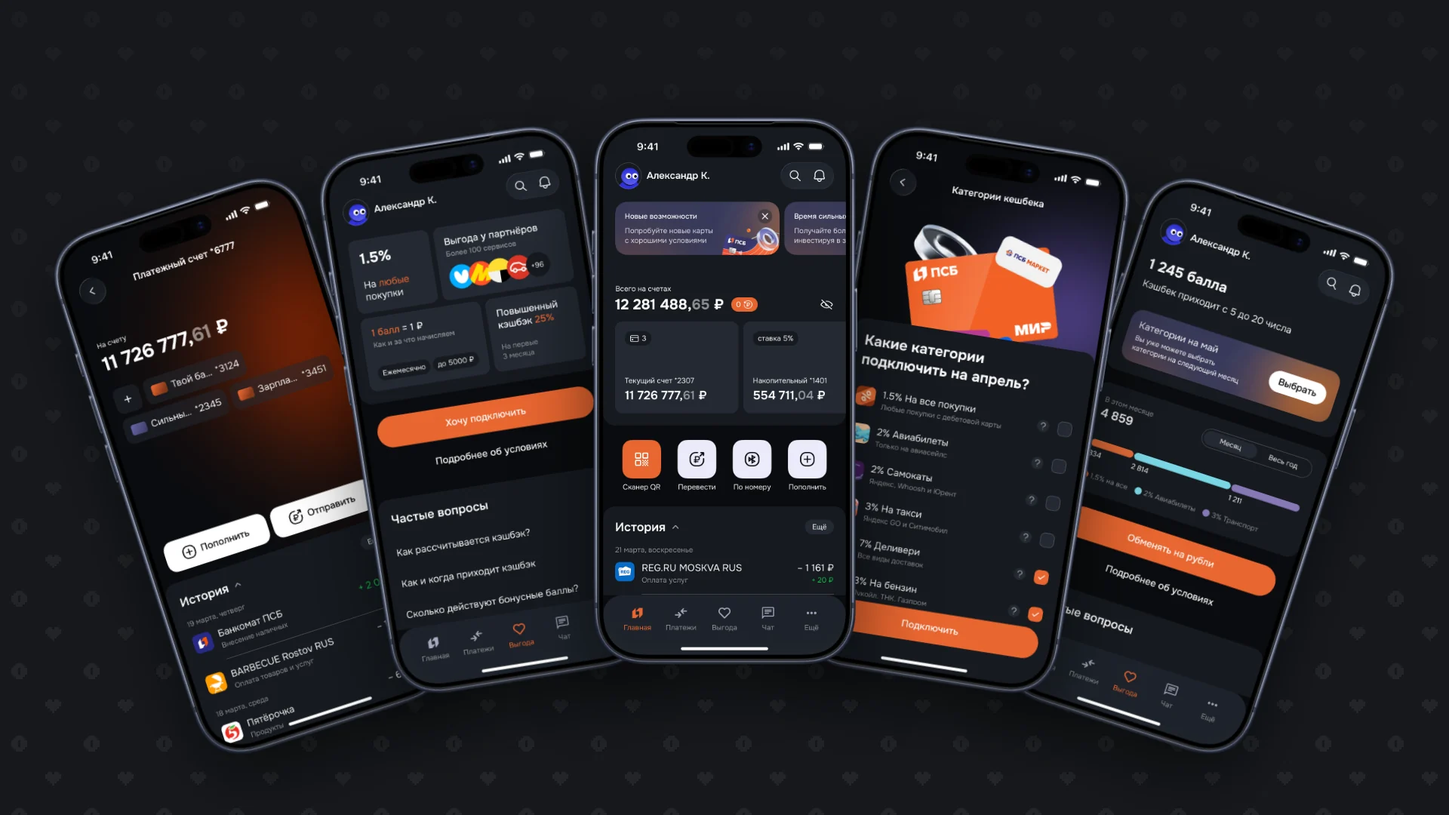
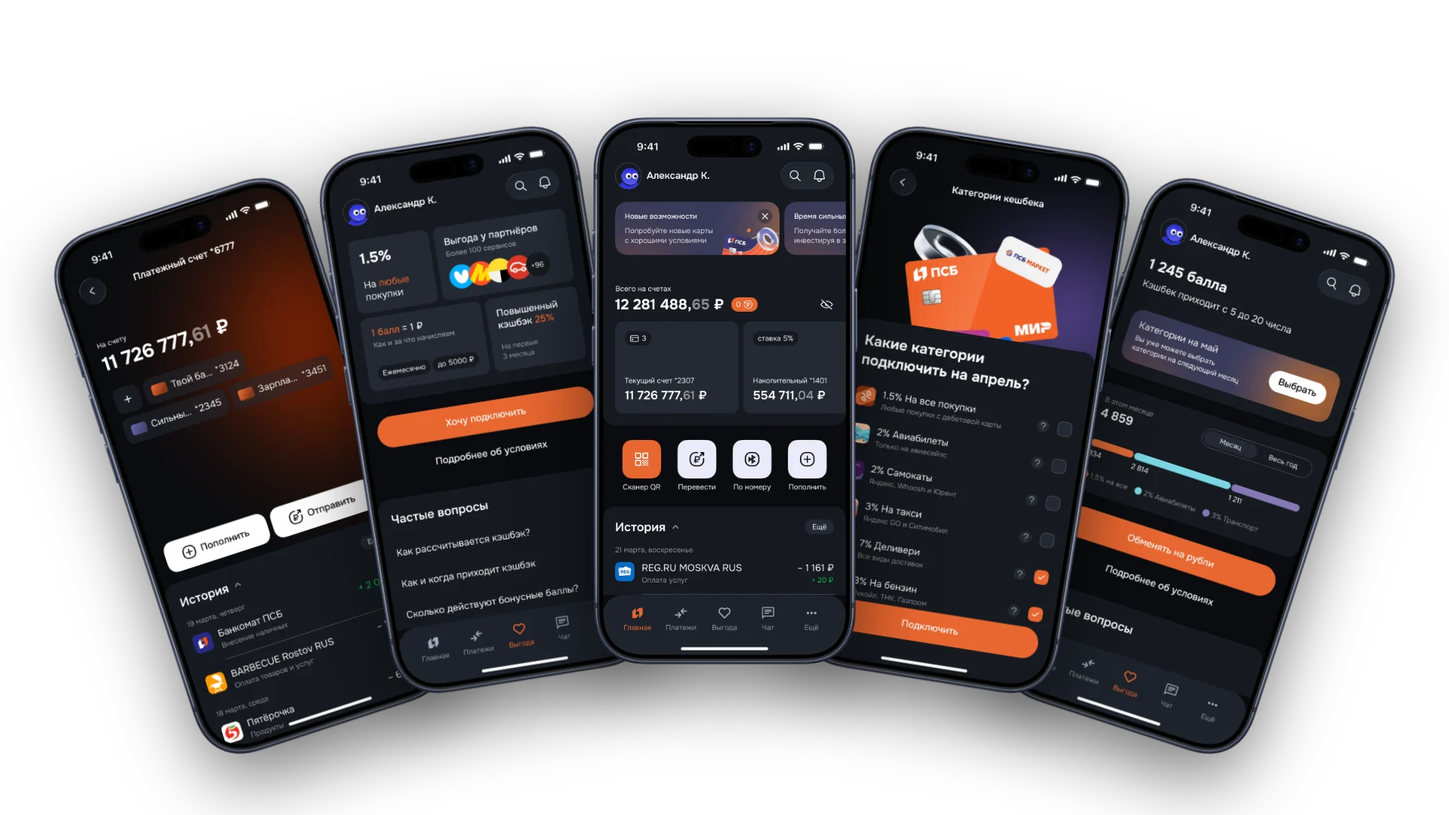
fix: cover objects always fit whole; only the background fills a wide window
Covers are now two layers: the graphite pattern fills any window and may be
cropped, the objects are a transparent 16:9 image fitted with object-fit: contain.

Claude-Session: https://claude.ai/code/session_01WDjvAgBeNzhiKsAMiNqV3R

diff --git a/tools/render-covers.js b/tools/render-covers.js
@@ -1,5 +1,8 @@
 /*
-  Renders the quest covers for sketches/pause.html (1920×1080 WebP).
+  Renders the quest covers for sketches/pause.html, each as two 1920×1080 WebP layers:
+  cover-<id>-bg.webp, the background alone, which fills a window of any shape and may be cropped
+  (it is a uniform pattern), and cover-<id>.webp, the objects alone on transparency, which the
+  page always fits whole (16:9 inside any window), so a very wide window never cuts them.
 
   PSB, BittVPN and Mouette are the cover scenes of the main site (cybertatar/Portfolio,
   tools/case-covers/*.html) restyled for this dark site: the beige parchment becomes a calm
@@ -12,7 +15,7 @@
   Usage:
     git clone --depth 1 https://github.com/cybertatar/Portfolio /path/to/Portfolio
     node tools/render-covers.js /path/to/Portfolio/tools/case-covers
-  Writes sketches/img/cover-{psb,vpn,wb,mou}.webp (needs python3 with Pillow for WebP).
+  Writes sketches/img/cover-{psb,vpn,wb,mou}{,-bg}.webp (needs python3 with Pillow for WebP).
 */
 const { chromium } = require('playwright');
 const { execFileSync } = require('child_process');
@@ -31,9 +34,14 @@ const out = path.join(root, 'sketches/img');
 // Background and pattern: graphite, the pattern a whisper lighter (white at low opacity keeps it
 // neutral whatever colour the pattern was drawn in); the old fade towards the top stays
 const BG = '#17191d';
-const BASE =
+// Background layer: everything but the pattern hidden
+const BG_ONLY =
   `html,body{background:${BG}!important}` +
-  '.pattern,body::before{filter:brightness(0) invert(1)!important;opacity:.05!important}';
+  '.pattern,body::before{filter:brightness(0) invert(1)!important;opacity:.05!important}' +
+  'body>*:not(.pattern){visibility:hidden!important}';
+// Objects layer: no background, no pattern
+const OBJECTS_ONLY =
+  'html,body{background:transparent!important}.pattern,body::before{display:none!important}';
 const SHADOW = 'drop-shadow(0 32px 48px rgb(0 0 0 / 0.55))';
 const COVERS = [
   { id: 'psb', file: path.join(src, 'psb.html'), css: `.phone{filter:${SHADOW}!important}` },
@@ -41,10 +49,10 @@ const COVERS = [
   {
     id: 'mou',
     file: path.join(src, 'mouette.html'),
-    // The hole in the tag shows the background through it
+    // The hole in the tag is a real hole: the background shows through it
     css:
       `.shadow{filter:drop-shadow(0 2px 3px rgb(0 0 0/.3)) ${SHADOW}!important}` +
-      `.hole{background:${BG}!important}`,
+      '.hole{background:transparent!important}',
   },
   { id: 'wb', file: path.join(root, 'tools/covers/wb.html'), css: '' },
 ];
@@ -52,20 +60,26 @@ const COVERS = [
 (async () => {
   const browser = await chromium.launch();
   const page = await browser.newPage({ viewport: { width: 1920, height: 1080 } });
-  for (const c of COVERS) {
+  const shot = async (c, css, name, alpha) => {
     await page.goto('file://' + c.file, { waitUntil: 'networkidle' });
-    await page.addStyleTag({ content: BASE + c.css });
+    await page.addStyleTag({ content: css });
     await page.evaluate(() => document.fonts.ready);
-    const png = path.join(os.tmpdir(), `cover-${c.id}.png`);
-    await page.screenshot({ path: png });
-    const webp = path.join(out, `cover-${c.id}.webp`);
+    const png = path.join(os.tmpdir(), name + '.png');
+    await page.screenshot({ path: png, omitBackground: alpha });
+    const webp = path.join(out, name + '.webp');
     execFileSync('python3', [
       '-c',
-      'import sys;from PIL import Image;Image.open(sys.argv[1]).convert("RGB").save(sys.argv[2],quality=86,method=6)',
+      'import sys;from PIL import Image;im=Image.open(sys.argv[1]);' +
+        '(im if sys.argv[3]=="1" else im.convert("RGB")).save(sys.argv[2],quality=86,method=6)',
       png,
       webp,
+      alpha ? '1' : '0',
     ]);
     console.log(webp, Math.round(fs.statSync(webp).size / 1024) + ' KB');
+  };
+  for (const c of COVERS) {
+    await shot(c, BG_ONLY, `cover-${c.id}-bg`, false);
+    await shot(c, OBJECTS_ONLY + c.css, `cover-${c.id}`, true);
   }
   await browser.close();
 })();

diff --git a/sketches/pause.html b/sketches/pause.html
@@ -462,6 +462,13 @@
   .q small i.open {
     color: var(--green);
   }
+  /* A cover is two layers in one element: the background (graphite and the case's pattern) fills
+     a window of any shape, the objects are always fitted whole, 16:9, so a wide window never cuts
+     them */
+  .cover-art {
+    object-fit: contain;
+    background: #17191d center / cover no-repeat;
+  }
   .q-cover,
   .q-sub,
   .q-stats,
@@ -503,7 +510,6 @@
     }
     .q .q-cover {
       display: block;
-      object-fit: cover;
       width: 100%;
       height: auto;
       aspect-ratio: 16 / 9;
@@ -618,7 +624,6 @@
     inset: 0;
     width: 100%;
     height: 100%;
-    object-fit: cover;
   }
   .scene::after {
     content: '';
@@ -936,7 +941,6 @@
     inset: 0;
     width: 100%;
     height: 100%;
-    object-fit: cover;
   }
   .lq-body {
     display: flex;
@@ -3297,6 +3301,17 @@
     return c;
   }
 
+  /* ── Covers: the objects image over its background (see .cover-art); a pane is tinted with the
+     background, so the tint stays as calm as the graphite ── */
+  const coverArt = (id, cls = '') =>
+    `<img class="${cls} cover-art" src="img/cover-${id}.webp" ` +
+    `style="background-image:url(img/cover-${id}-bg.webp)" alt="">`;
+  const coverBg = (id) => {
+    const im = new Image();
+    im.src = `img/cover-${id}-bg.webp`;
+    return im;
+  };
+
   /* ── Data ── */
   const QUESTS = [
     {
@@ -3461,11 +3476,10 @@
     b.className = 'q';
     b.setAttribute('role', 'option');
     b.id = 'q-' + q.id;
-    const cover = document.createElement('img');
-    cover.className = 'q-cover';
-    cover.src = `img/cover-${q.id}.webp`;
-    cover.alt = '';
-    b.append(world(mk('', 1, 'glimpse'), q.id), cover, mk(q.icon[0], q.icon[1], 'ic'));
+    // The cover before the icon: its mask makes it a layer of its own, which would cover the icon
+    b.append(world(mk('', 1, 'glimpse'), q.id));
+    b.insertAdjacentHTML('beforeend', coverArt(q.id, 'q-cover'));
+    b.append(mk(q.icon[0], q.icon[1], 'ic'));
     b.insertAdjacentHTML(
       'beforeend',
       `<div><b>${q.title}</b><small>${tags(q)}<i class="${q.open ? 'open' : ''}">${q.st}</i></small>` +
@@ -3494,7 +3508,7 @@
       .forEach((b, k) => b.setAttribute('aria-selected', String(k === sel)));
     const seal = q.open ? '' : `<div class="seal">${q.st}</div>`;
     qd.innerHTML =
-      `<div class="scene window"><img class="cover" src="img/cover-${q.id}.webp" alt="">${seal}</div><div class="card"><div>` +
+      `<div class="scene window">${coverArt(q.id, 'cover')}${seal}</div><div class="card"><div>` +
       `<p class="region">${tags(q)}</p><h1>${q.title}</h1><p class="sub">${q.sub}</p>` +
       (q.facts ? `<p class="role"></p>` : `<p class="lockmsg"></p>`) +
       `<button class="cta" ${q.open ? '' : 'disabled'} id="cta">${q.open ? 'Открыть кейс' : 'Пока закрыт'}</button></div>` +
@@ -3502,7 +3516,7 @@
         ? factsHTML(q.facts)
         : '') +
       `</div>`;
-    tint(qd, qd.querySelector('.scene .cover'));
+    tint(qd, coverBg(q.id));
     if (q.facts) {
       const r = qd.querySelector('.role');
       r.append(mk('spark', 2));
@@ -3539,12 +3553,12 @@
   const lastQ = QUESTS.find((q) => q.open);
   const last = document.getElementById('last');
   last.innerHTML =
-    `<div class="lq-cover"><img src="img/cover-${lastQ.id}.webp" alt=""></div>` +
+    `<div class="lq-cover">${coverArt(lastQ.id)}</div>` +
     `<div class="lq-body"><b>${lastQ.title}</b>` +
     `<small class="lq-line">${tags(lastQ)}<i>${lastQ.st}</i></small>` +
     `<p class="lq-stats">${lastQ.stats.map(([n, l]) => `<span><b>${n}</b>${l}</span>`).join('')}</p>` +
     `<span class="lq-go">Открыть кейс</span></div>`;
-  tint(last, last.querySelector('.lq-cover img'));
+  tint(last, coverBg(lastQ.id));
   last.addEventListener('click', () => {
     tab(1);
     select(QUESTS.indexOf(lastQ));

diff --git a/README.md b/README.md
@@ -37,8 +37,8 @@
 - «Последний квест» на «Персонаже». Десктоп: карточка в левой половине низа — обложка сверху (растворяется вниз в свой цвет) — гибкое «окно», занимает высоту, что осталась, а не строго 16:9; под ней название, строка «область год статус», три показателя и кнопка «Открыть кейс» во всю ширину. На невысоких ноутбуках (до 820 px в высоту) показатели прячутся, остаются в кейсе. Прежний вариант — горизонтальная карточка во всю ширину панели (обложка слева, текст справа) — заменён: оставлял дыру над собой. Если карточка уже 420 px (телефон), показатели не показываем. Рядом с вишлистом карточка всегда вертикальная; на бок (обложка слева) ложится, только когда занимает весь ряд (экран уже 1200 px) и шире 640 px. Отклонено: карточка на боку в половине ряда — показатели налезали друг на друга. Телефон (вишлист — под карточкой): обложка 16:9 сверху (растворяется вниз в свой цвет), под ней название, строка статуса и кнопка во всю ширину; без показателей — полная карточка на «Квестах». Отклонено на телефоне: компактная строка с квадратной миниатюрой («скудно», обложка не читается). На «Персонаже» одна золотая кнопка — «Открыть кейс»; «Написать в Telegram» второстепенная (сначала посмотреть работу). Отклонено: плитка с картинкой и цифрой строкой без кнопки (собрана по старым правилам).
 - «Квесты»: превью с цифрами, ролью и сутью — оставляем. Картинки не вставкой сбоку, а обложкой во всю ширину карточки.
 - Карточка квеста: слева заголовок, суть, роль, а кнопка «Открыть кейс» внизу левой колонки — на одной нижней линии с последней плиткой метрик, на той же левой линии, что и текст; справа столбиком три плитки метрик (крупная цифра и что она значит; подробности вроде «23 с вместо 105» — внутри кейса, плитки одинаковые). Обложка тоже открывает кейс. Цифры словами, как говорят люди: «В 4 раза», не «4×». Отклонено: клавиша Enter на кнопке (путает), кнопка сразу под текстом посреди карточки («криво» относительно нижнего края), цифра слева от подписи в одну строку («криво»), метрики во всю ширину под текстом (справа нравилось больше).
-- Обложки квестов — 16:9 (как видео и превью ссылок); маленькие миниатюры в списках — 1:1. Сцена в карточке на компьютере — гибкое «окно» во всю панель, обложка в нём обрезается по краям.
-- Обложки кейсов — те же, что на основном сайте (`tools/case-covers` там), в нашем стиле: предметы продукта (у PSB веер из пяти телефонов, у BittVPN посадочный талон и приложение, у Mouette бирка на нитке и нашивка) на спокойном графитовом фоне со слабым пиксельным узором своего кейса. У WB на старой обложке был только узор, здесь — большая пиксельная копилка-свинья в цветах WB с монетой над прорезью. Обложка — одна и та же картинка на «Квестах», в «Последнем квесте» и на карточке квеста на телефоне; миниатюры в списке квестов на компьютере остаются кусочком мира. Отрисовка — `node tools/render-covers.js <Portfolio>/tools/case-covers` (сцена WB — `tools/covers/wb.html`). Отклонено: мир квеста под обложкой («слишком сильно на глаза давит»: мир уже размыт за стеклом), бежевый пергамент старых обложек (светлое пятно на тёмном сайте).
+- Обложки квестов — 16:9 (как видео и превью ссылок); маленькие миниатюры в списках — 1:1. Сцена в карточке на компьютере — гибкое «окно» во всю панель, предметы обложки вписываются в него целиком.
+- Обложки кейсов — те же, что на основном сайте (`tools/case-covers` там), в нашем стиле: предметы продукта (у PSB веер из пяти телефонов, у BittVPN посадочный талон и приложение, у Mouette бирка на нитке и нашивка) на спокойном графитовом фоне со слабым пиксельным узором своего кейса. У WB на старой обложке был только узор, здесь — большая пиксельная копилка-свинья в цветах WB с монетой над прорезью. Обложка — два слоя: фон (графит и узор) заполняет окно любой формы и спокойно обрезается, а предметы — отдельная картинка 16:9, которая всегда вписывается целиком, поэтому на широком экране ничего не режется. Отклонено: одна картинка, обрезанная по окну (на большом мониторе окно «Последнего квеста» очень широкое и срезало телефоны), и окно строго 16:9 (вернуло бы дыру над карточкой). Обложка одна и та же на «Квестах», в «Последнем квесте» и на карточке квеста на телефоне; миниатюры в списке квестов на компьютере остаются кусочком мира. Отрисовка — `node tools/render-covers.js <Portfolio>/tools/case-covers` (сцена WB — `tools/covers/wb.html`). Отклонено: мир квеста под обложкой («слишком сильно на глаза давит»: мир уже размыт за стеклом), бежевый пергамент старых обложек (светлое пятно на тёмном сайте).
 - Квесты на телефоне: без списка рядом с карточкой — каждый квест своя карточка в одной ленте, нажатие сразу открывает кейс (так список-детали складывается на телефоне в Material 3). У всех карточек одно устройство и одна высота: мир сверху, название и статус, суть целиком, без обрезки многоточием (обрезка прячет, что за проект; не жертвуем ни описанием, ни показателями — карточка с длинным описанием просто выше), результаты рядом показателей, как счётчики в профиле соцсети: крупная цифра и подпись в слово-два, без плашек — «В 4 раза / быстрее кешбэк», «83% / с первого клика», «30 / клиентов в тесте» (поле `stats` у квеста), — у закрытых на их месте строка той же высоты с маленьким пиксельным значком и причиной, — внизу кнопка во всю ширину: «Открыть кейс» золотая или «Пока закрыт» серая. Отклонено: одна метрика строкой без оформления, кнопка не во всю ширину, карточки разного размера, три плитки метрик в ряд (на узких телефонах подписи рвутся на 4 строки), плитки метрик столбиком («сборище кирпичей»), чипсы с целой фразой (по дизайн-системам чипсы и теги — для категорий, фильтров и статусов, подписи в 1–3 слова; для цифр есть паттерн «показатель»: крупное число и короткая подпись, 2–4 в ряд), раздутые карточки (были 622 px, стали 467), мир сверху без скругления углов карточки, наведение, которое делает карточку прозрачной. На телефоне «Квесты» — прокрутка с доводкой (пробуем): лента прокручивается сама, палец ничто не перехватывает; когда его отпустили и лента остановилась (140 мс тишины), ближайшая карточка мягко доезжает до середины экрана, первая — до верха. Мир за стеклом всё время следует за карточкой в середине. На низком экране (до 700 px) обложка 21:9 вместо 16:9, чтобы под первой карточкой выглядывала вторая. Ритм карточки на телефоне: четыре группы (название со строкой статуса, суть, показатели, кнопка), внутри группы 4 px, между группами 16–24 px; проверено на 320, 360 и 390 px.
 - Список квестов: строки как в списке Spotify — слева квадратная миниатюра мира квеста, справа название и строка «область год статус»; мир никогда не лежит под текстом, наведение только подсвечивает строку. Панель списка — во всю высоту, как карточка рядом (симметрия важнее; асимметрия хуже пустоты), под строками чистое стекло. Отклонено: приглушённый мир справа под текстом строки (при наведении и выборе закрытые кейсы превращались в «прозрачное месиво»), мир выбранного квеста под строками («грязно»), плашка «Побочные квесты» с иконками внизу списка, подпись «Основные», строки, растянутые на всю высоту («колхозно»), список по высоте строк (асимметрично), квесты строкой плиток над карточкой и список поверх мира квеста (переизобретает концепцию).
 - «Побочные квесты» — бенто-сетка карточек, понравилась. Шесть карточек в 4 колонки: «UX-тренажёр» высокий, плагин для Figma широкий. Плагин — заглушка (на рассмотрении у Figma): название, описание и иконку `img/side-figma.webp` заменить, когда опубликуют.
